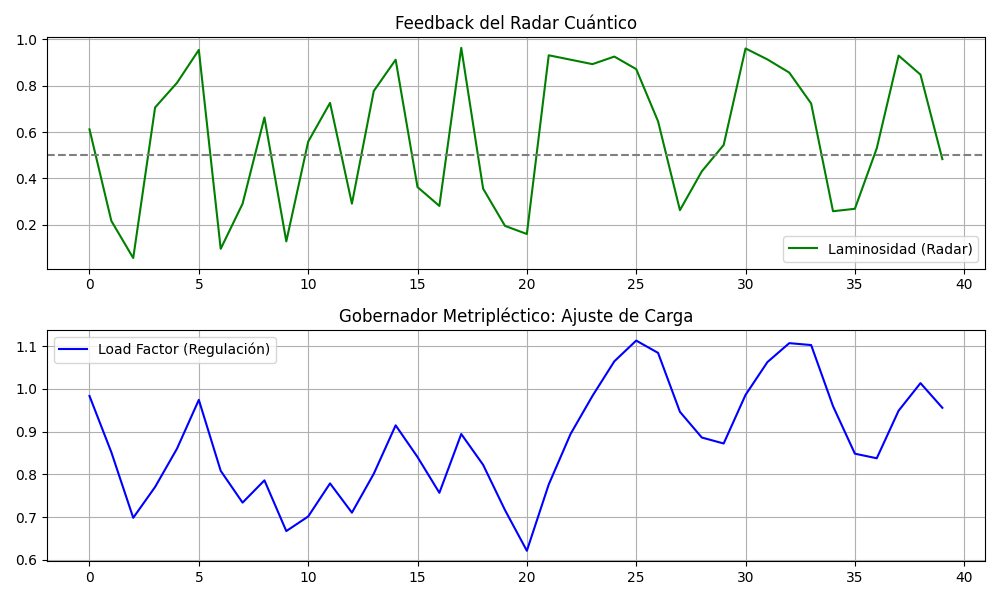
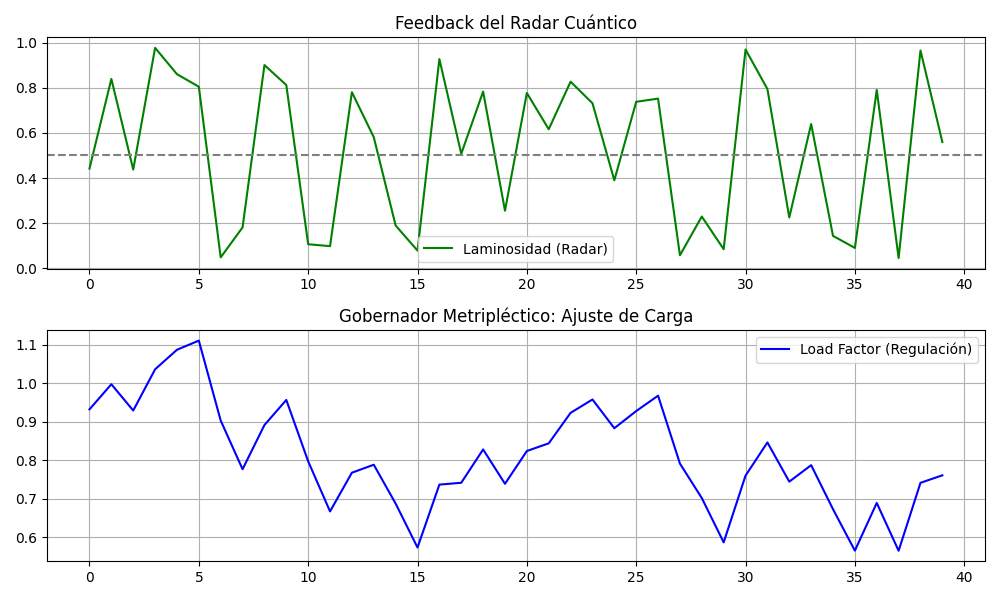
notebook update

diff --git a/h7_bayesian_oracle.py b/h7_bayesian_oracle.py
@@ -166,29 +166,37 @@ class H7BayesianOracle:
 # FUNCIONES DE INTEGRACIÓN
 # ============================================================
 
-def run_extraction_pipeline(job_name: str, credentials_path: str = "credentials.json"):
+def run_extraction_pipeline(job_name: str, credentials_path: str = "credentials.json", cache_file: str = "h7_quantum_entropy.json"):
     """
-    Pipeline completo:
-    1. Recupera job de q3as.
-    2. Extrae bits de entropía.
-    3. Calcula integridad H7.
+    Pipeline completo con Persistencia:
+    1. Intenta recuperar de cache local.
+    2. Si no hay cache o falla, intenta q3as.
+    3. Si q3as falla, usa el cache como fallback.
     """
     print(f"\n🚀 Iniciando Extractor de Bits H7 para Job: {job_name}")
     print("="*60)
     
+    # Intentar cargar de cache primero para velocidad
+    try:
+        with open(cache_file, 'r') as f:
+            cached_data = json.load(f)
+            if cached_data.get("job_name") == job_name:
+                print(f"📦 [CACHE] Recuperados {len(cached_data['bits'])} bits de entropía local.")
+                return cached_data
+    except:
+        pass
+
     try:
         client = Client(Credentials.load(credentials_path))
         job = client.get_job(job_name)
         result = job.result()
         
-        # En q3as, los counts suelen estar en result.meas_counts o result.sampled
         counts = getattr(result, "meas_counts", {})
         if not counts:
             counts = getattr(result, "sampled", {})
             
         if not counts:
-            print("⚠ No se encontraron counts (meas_counts/sampled) en el resultado.")
-            return None
+            raise ValueError("No se encontraron counts en el resultado.")
             
         n_qubits = len(list(counts.keys())[0])
         extractor = H7BitExtractor(n_qubits)
@@ -197,22 +205,29 @@ def run_extraction_pipeline(job_name: str, credentials_path: str = "credentials.
         bits = extractor.extract()
         metrics = extractor.compute_asymmetry_metrics()
         
-        print(f"\n📊 Métricas de Asimetría (Entropía Cuántica):")
-        for k, v in metrics.items():
-            print(f"  {k:<20}: {v}")
-            
-        print(f"\n🔑 Bits Extraídos (primeros 64): {bits[:64]}...")
-        print(f"  Longitud total: {len(bits)} bits")
-        
-        return {
+        # Guardar en Cache
+        payload = {
+            "job_name": job_name,
             "bits": bits,
             "metrics": metrics,
             "n_qubits": n_qubits
         }
+        with open(cache_file, 'w') as f:
+            json.dump(payload, f)
+            
+        print(f"✅ Bits extraídos y persistidos en {cache_file}.")
+        return payload
         
     except Exception as e:
-        print(f"❌ Error en el pipeline: {e}")
-        return None
+        print(f"❌ Error en el pipeline (Cloud): {e}")
+        # FALLBACK FINAL
+        try:
+            with open(cache_file, 'r') as f:
+                print("⚠ Usando FALLBACK de entropía persistida...")
+                return json.load(f)
+        except:
+            print("💀 No hay cache disponible. Fallo total.")
+            return None
 
 if __name__ == "__main__":
     # Test local con datos simulados si no hay job activo
